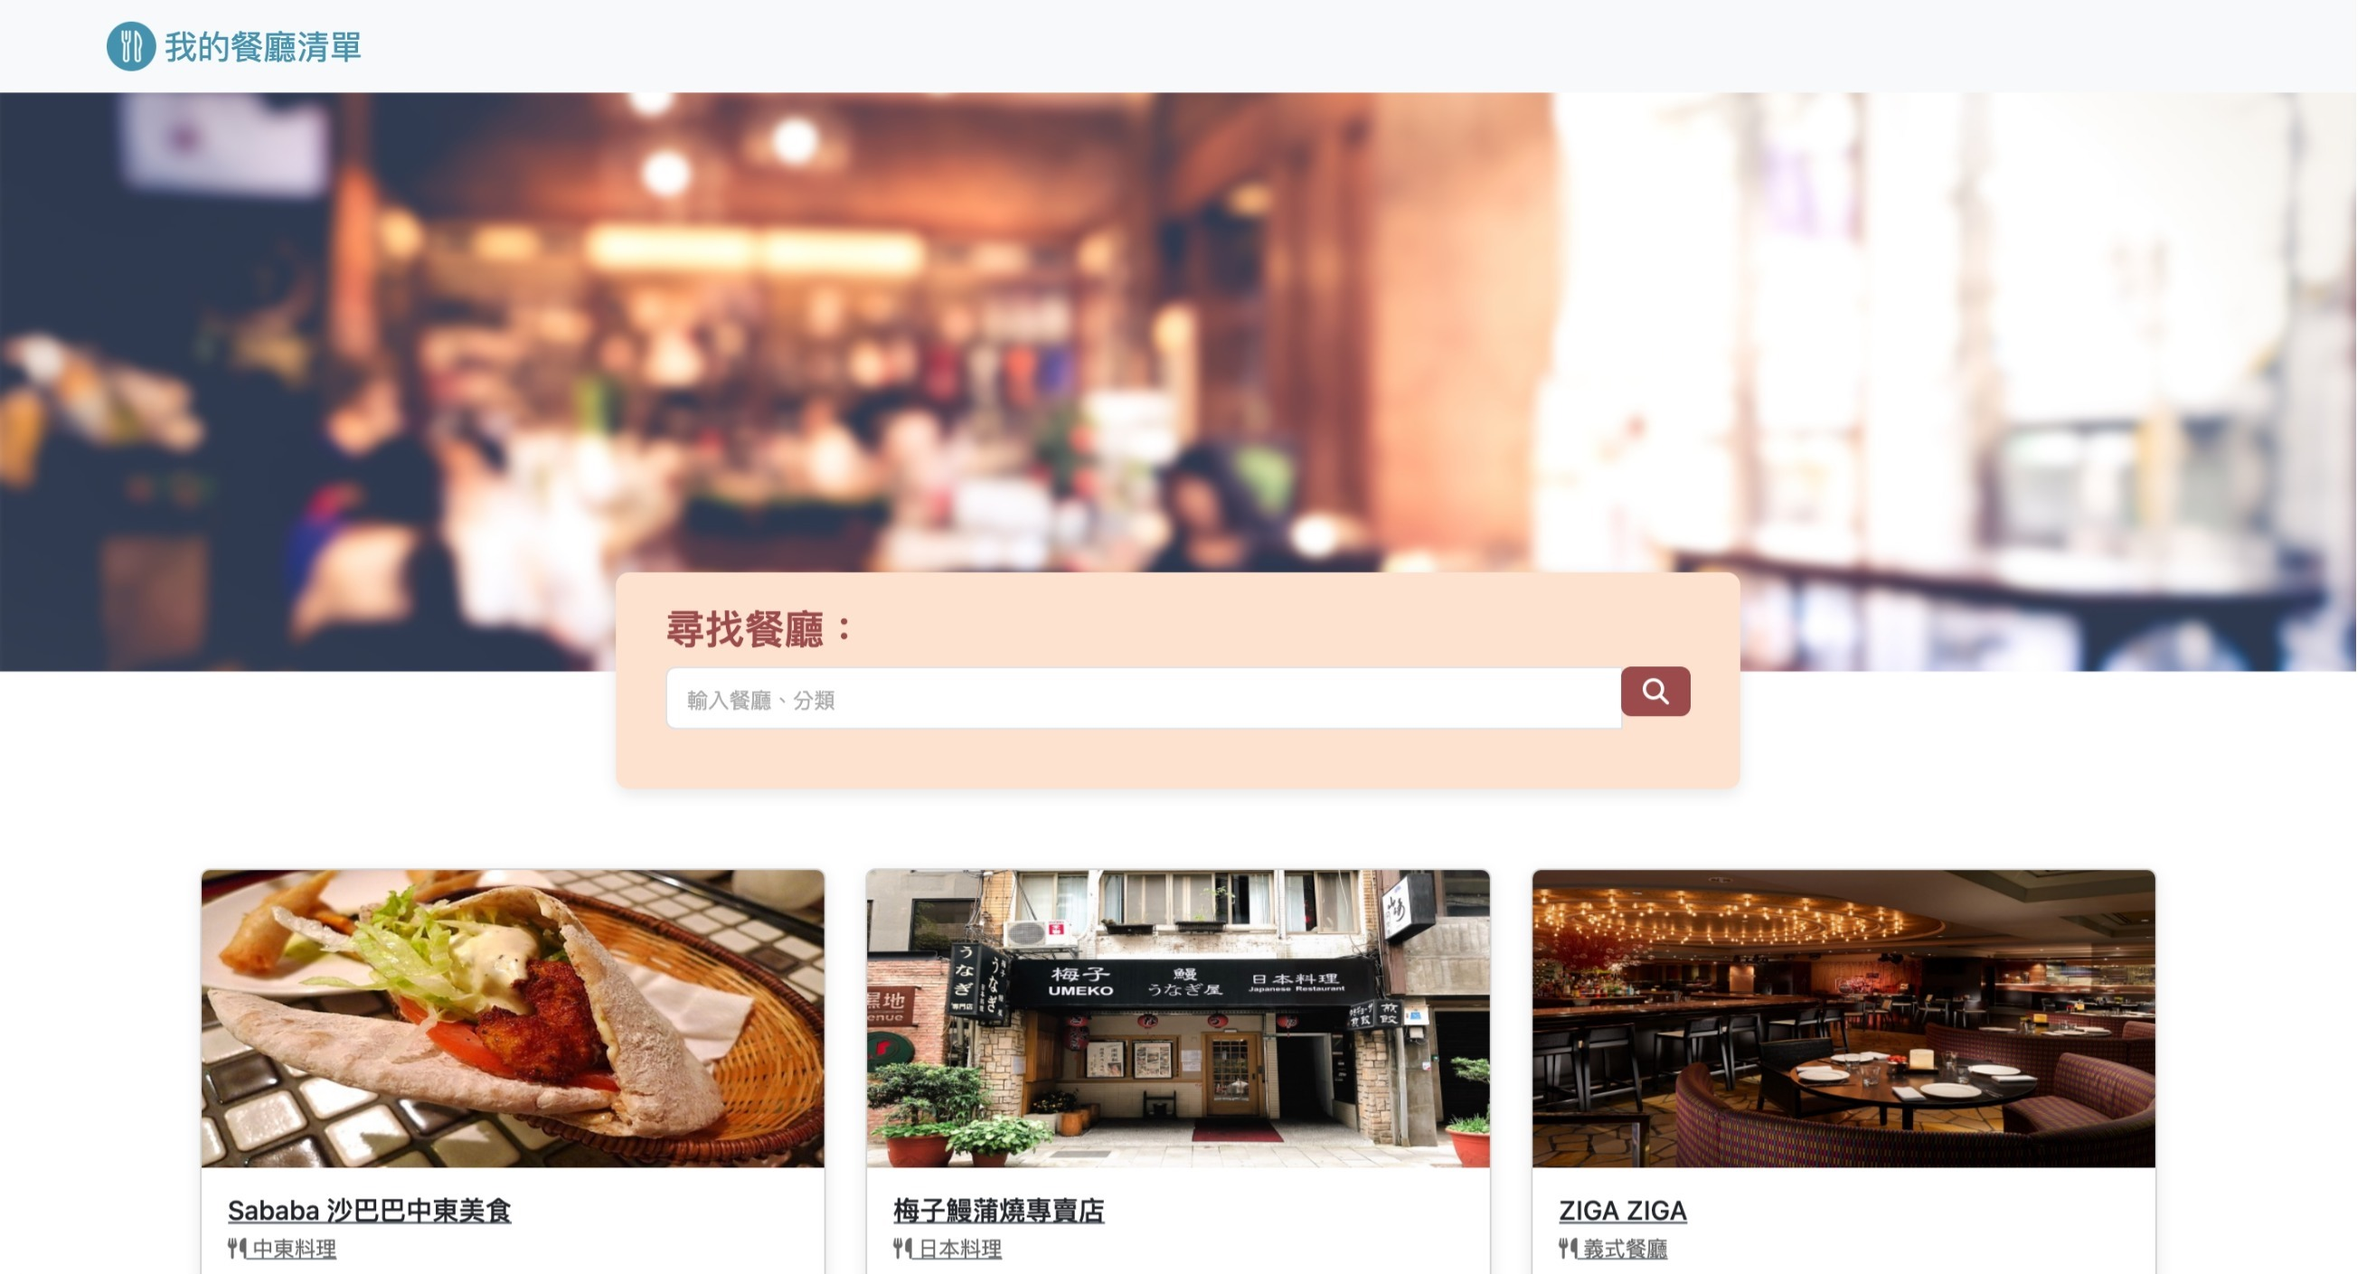
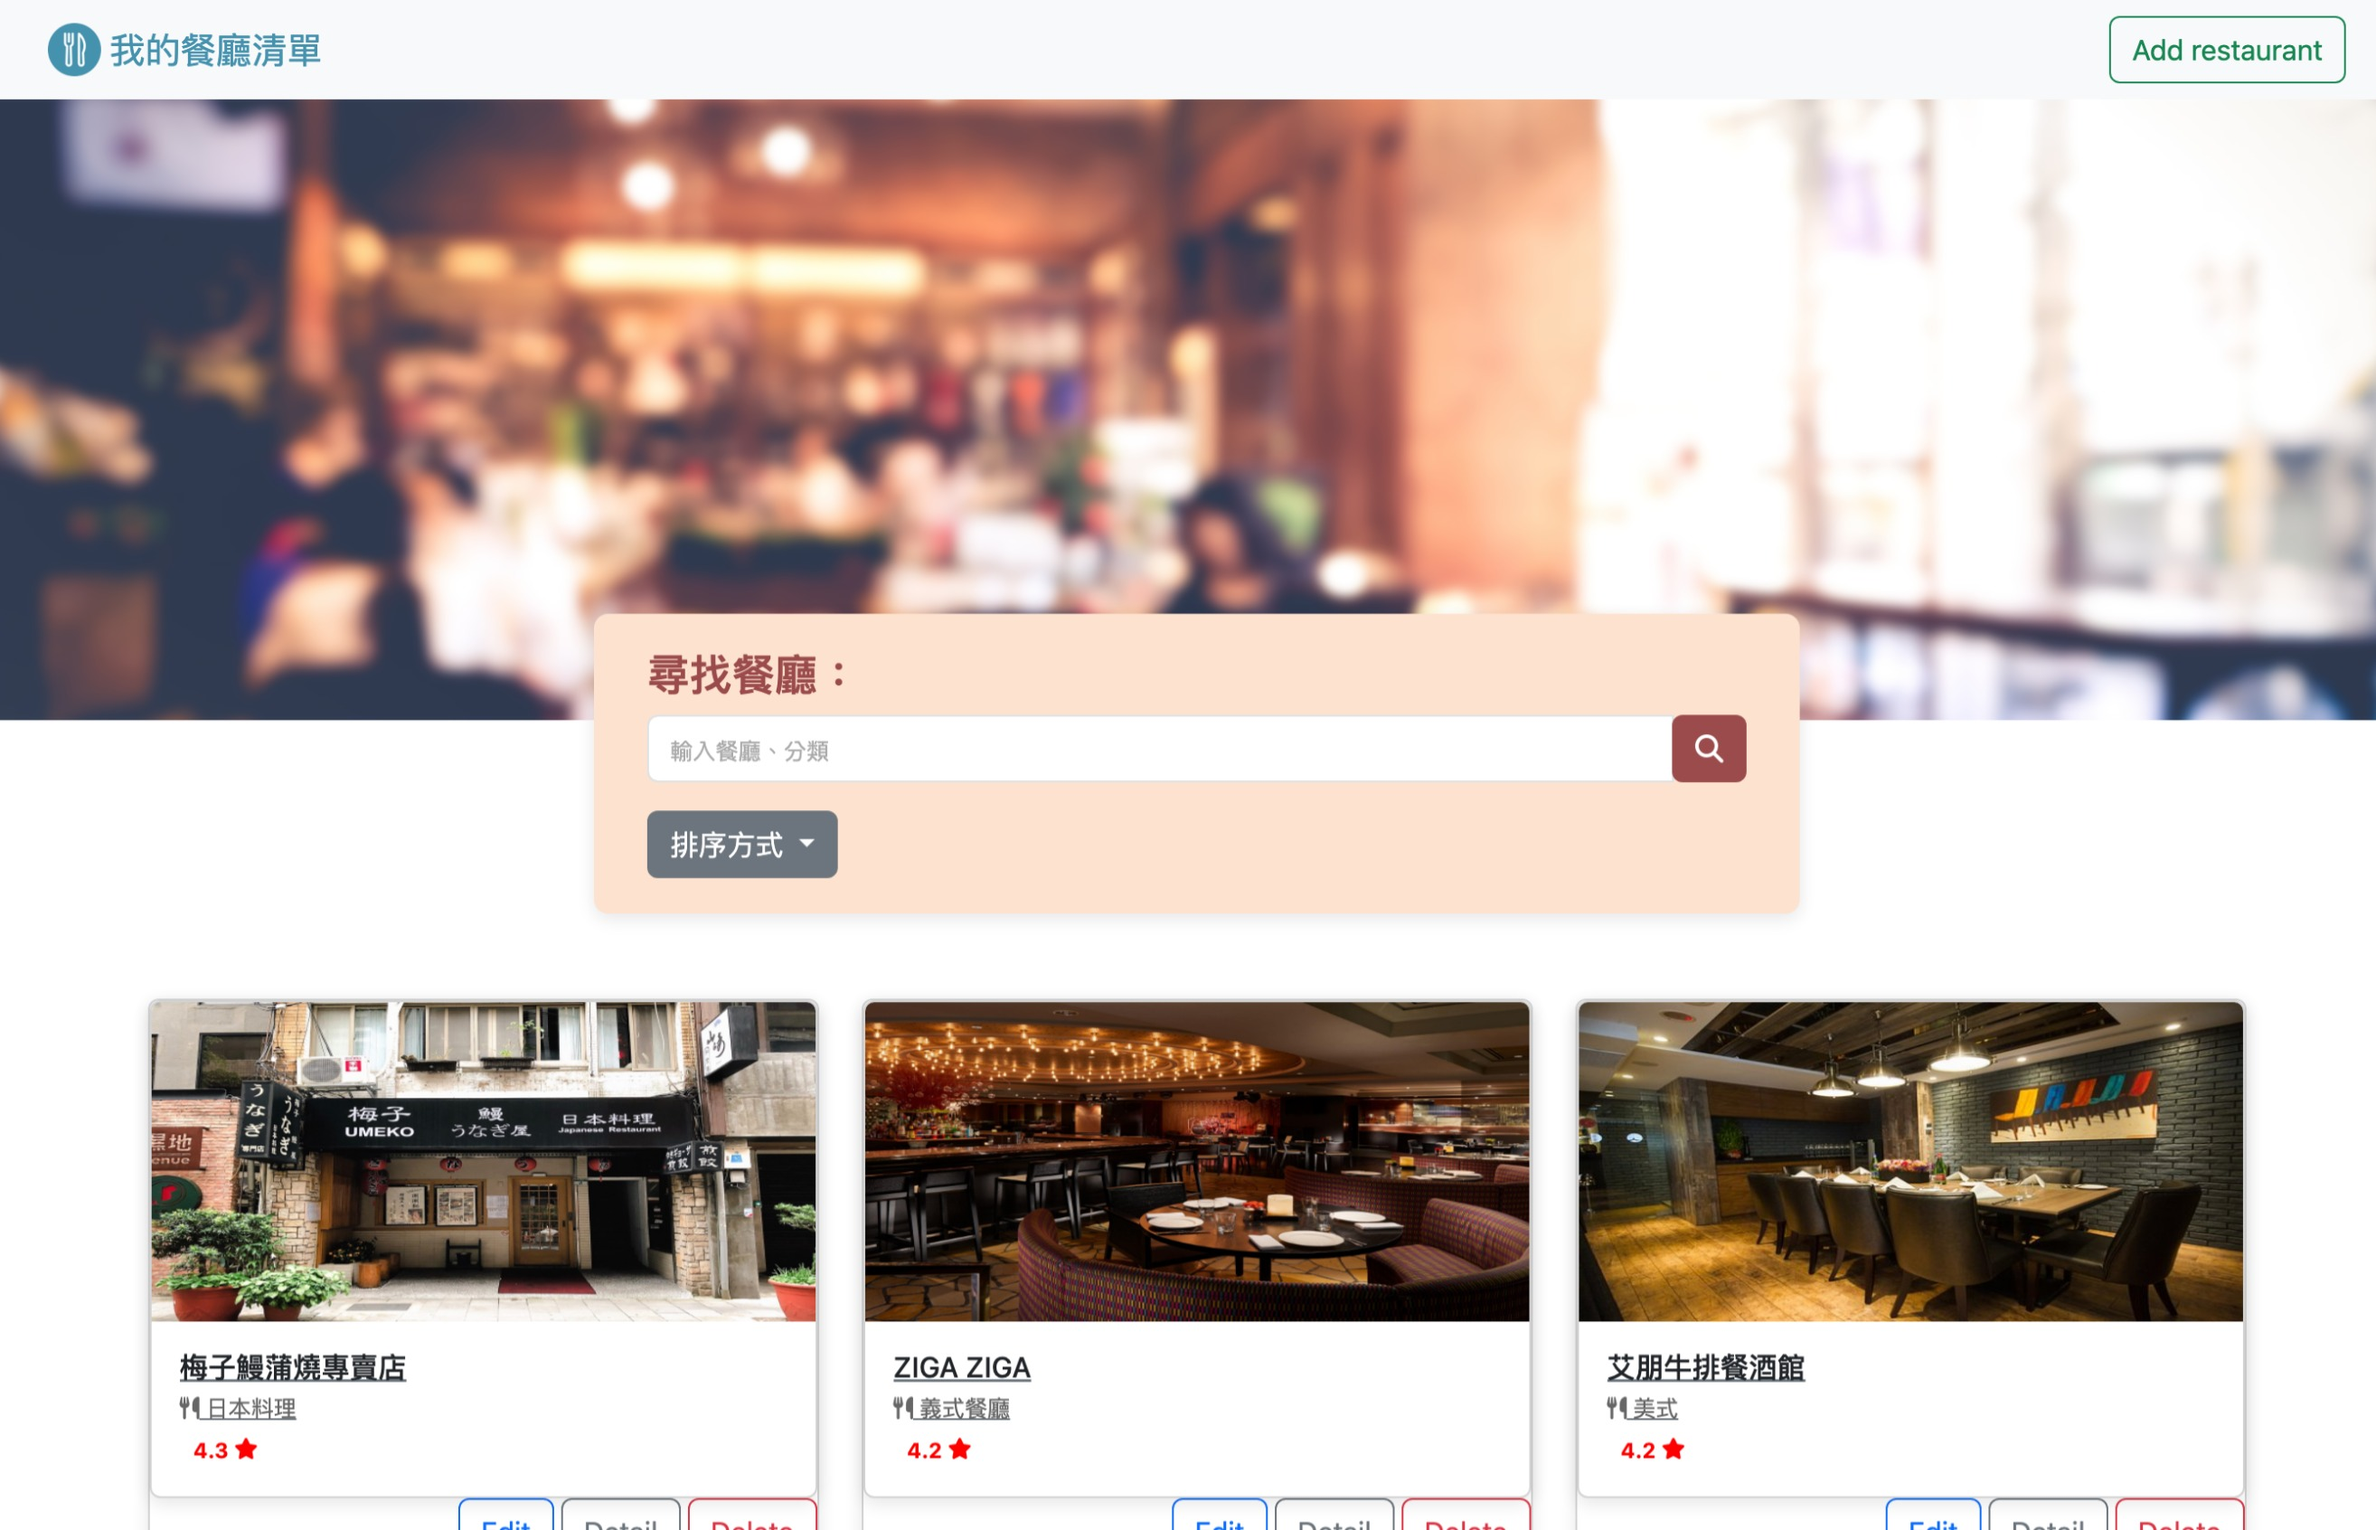
feat: Update README.md

diff --git a/README.md b/README.md
@@ -18,6 +18,7 @@
 - 快速連結餐廳地址至 Google Map
 - 透過關鍵字搜尋餐廳名稱或類別
 - 關鍵字查無餐廳提示
+- 選擇名稱/地區/類別來排序餐廳
 
 ## 開始使用
 
@@ -71,6 +72,7 @@ ctrl + c
 - Bootstrap 5.3.0
 - dotenv 16.0.3
 - mongoose 5.13.17
+- method-override 3.0.0
 - Node.js 14.16.0
 - Nodemon 2.0.22
 - Express.js 4.18.2
